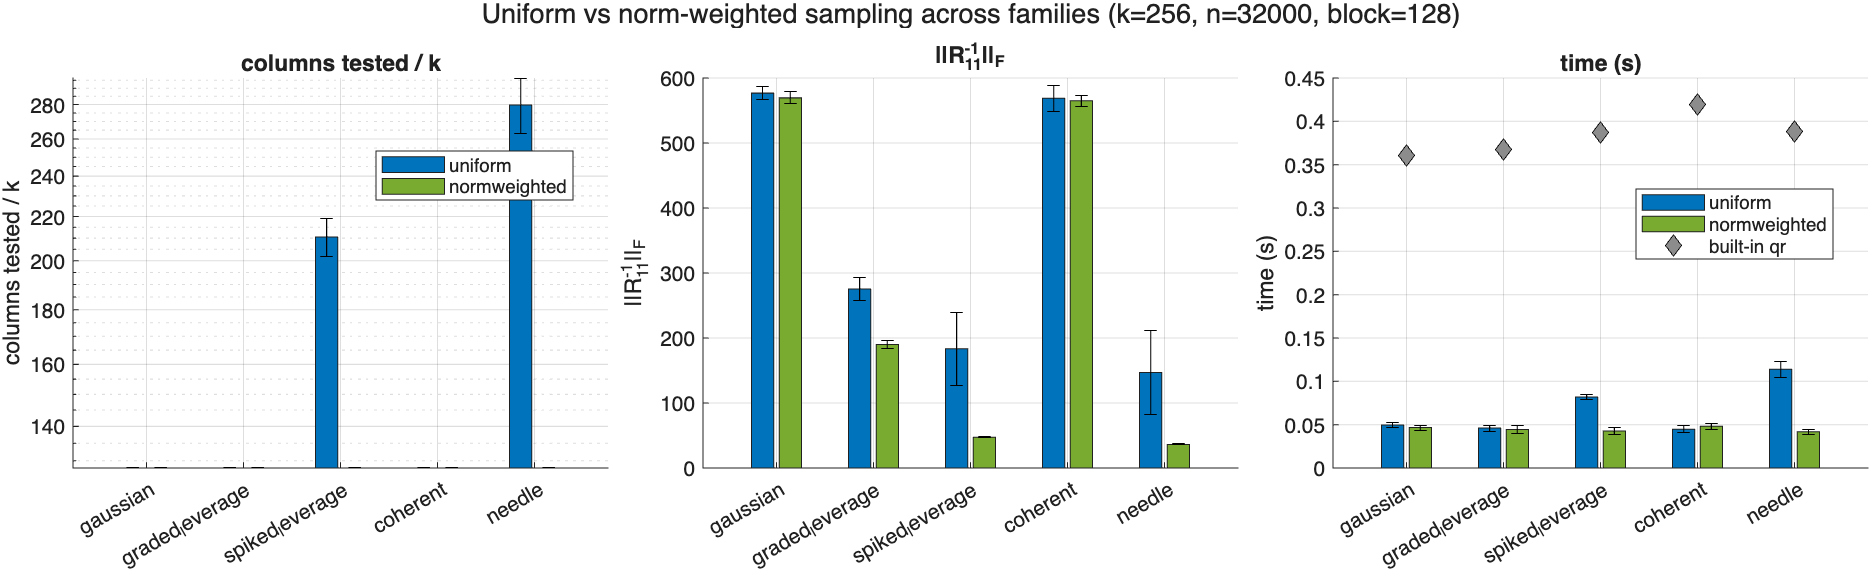
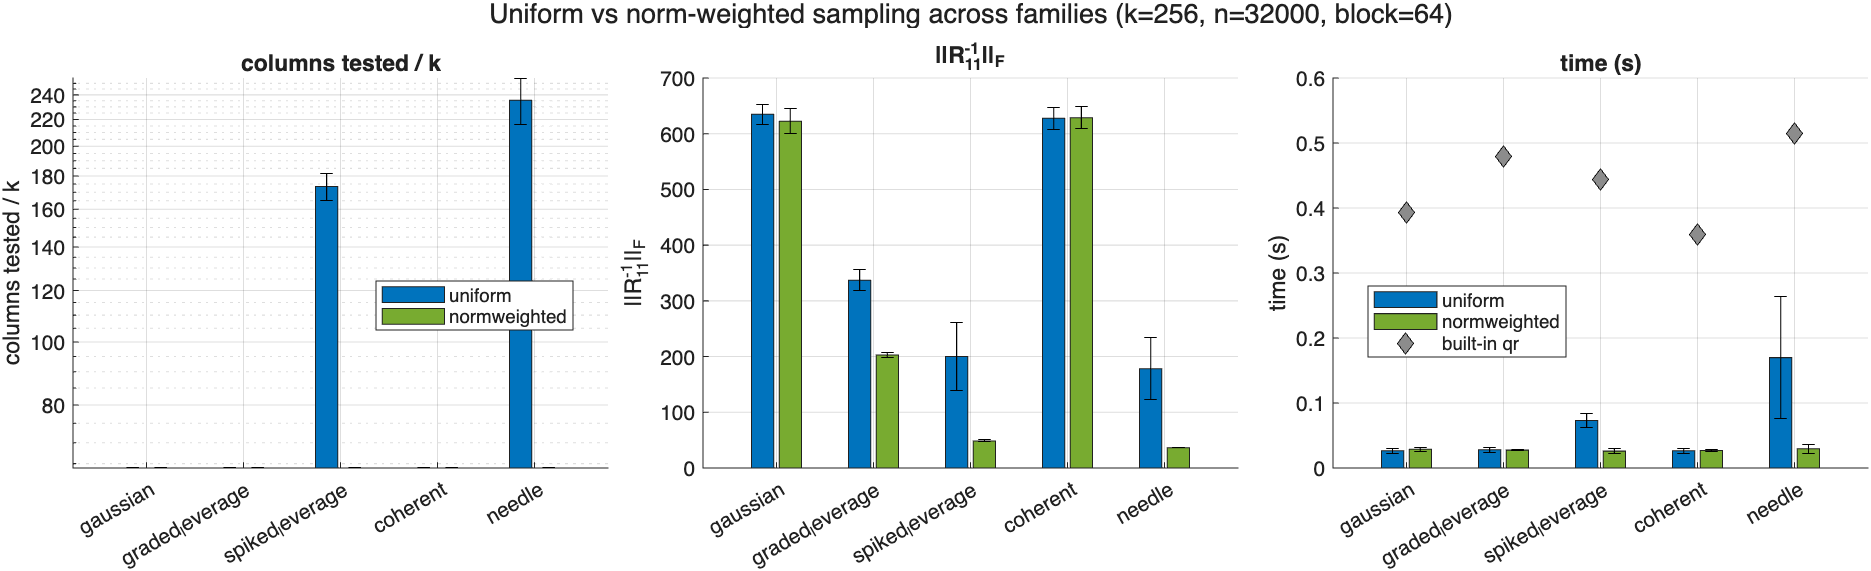
Cap default block at 64; documentation pass; exclude ext_comparisons/
Default block size cap lowered from 128 to 64 (rand_default_block.m + MEX mirror),
so the default is now ceil(k/2) in [16,64] = 32/64/64 for k=64/128/256. At k=256
this roughly doubles the speed for marginally worse conditioning: vs dgeqp3
36x (was 18x at block 128), vs deterministic 67x (was 35x), conditioning 0.221
(was 0.204). Regenerated k=256 CSVs and plots; k=64/128 unchanged. Tests 18/18.

Documentation pass over docs/RANDOMIZED_BSQR_PLAN.md and matlab_rand/README.md:
- Refreshed every number to the current default-block run (k=256 across-k figures,
  the R12 bullet, the vendor-qr bullet).
- Fixed stale claims left from incremental edits: the "475x" in sec 10 (that was
  block 16; the default-block result is 345x), the R12 bullet's block-16 numbers,
  and the across-k "conditioning ~0.29-0.33" sub-bullet that contradicted the
  "0.28->0.23->0.22" line above it.
- Removed redundancy (the thrice-stated "speedup grows with n", duplicated
  block-16 caveats, a redundant norm-weighted across-k sub-bullet) and corrected
  the stale block_size default ("16") in sec 6 and the README options table.

Excluded ext_comparisons/ from git (.gitignore): third-party comparison
algorithms are documented but not redistributed here -- download from source.

diff --git a/matlab_rand/mex/src/bsqr_rand_mex.cpp b/matlab_rand/mex/src/bsqr_rand_mex.cpp
@@ -260,8 +260,8 @@ void mexFunction(int nlhs, mxArray *plhs[], int nrhs, const mxArray *prhs[]) {
     }
 
     const mwSize k = opt.k;
-    if (opt.block_size == 0) {   // auto: mirrors rand_default_block.m = ceil(k/2) in [16,128]
-        opt.block_size = std::min<mwSize>(128, std::max<mwSize>(16, (k + 1) / 2));
+    if (opt.block_size == 0) {   // auto: mirrors rand_default_block.m = ceil(k/2) in [16,64]
+        opt.block_size = std::min<mwSize>(64, std::max<mwSize>(16, (k + 1) / 2));
     }
     const mwSize block = std::min(opt.block_size, std::max<mwSize>(n, 1));
     const bool weighted = (opt.sampling == Sampling::NormWeighted);

diff --git a/matlab_rand/bsqr_rand.m b/matlab_rand/bsqr_rand.m
@@ -15,7 +15,7 @@ function varargout = bsqr_rand(A, varargin)
 % Name-value options:
 %   'k'              - number of columns to select (default min(m,n))
 %   'block_size'     - candidates tested per sampling round (default
-%                      ceil(k/2) clamped to [16,128]; see RAND_DEFAULT_BLOCK).
+%                      ceil(k/2) clamped to [16,64]; see RAND_DEFAULT_BLOCK).
 %                      Larger blocks improve realized selection quality (the
 %                      per-step minimum is taken over more candidates) at higher
 %                      cost; the guaranteed bound is unchanged.

diff --git a/matlab_rand/rand_default_block.m b/matlab_rand/rand_default_block.m
@@ -1,6 +1,6 @@
 function b = rand_default_block(k)
 %RAND_DEFAULT_BLOCK Default sampling block size as a function of k.
-%   b = ceil(k/2), clamped to [16, 128].
+%   b = ceil(k/2), clamped to [16, 64].
 %
 %   Block size trades compute for *realized* selection quality: with
 %   pick='best_in_block' the accepted pivot is the minimum-criterion column over
@@ -12,5 +12,5 @@ function b = rand_default_block(k)
 %
 %   The C++ MEX backend mirrors this formula; keep the two in sync.
 
-b = min(128, max(16, ceil(k / 2)));
+b = min(64, max(16, ceil(k / 2)));
 end

diff --git a/docs/RANDOMIZED_BSQR_PLAN.md b/docs/RANDOMIZED_BSQR_PLAN.md
@@ -91,18 +91,13 @@ Measured (Apple Silicon, MEX, k=64, `gaussian` orthonormal rows, default block
 | 64×64000   | 345×           | 127×              |
 
 `t_rand` is essentially flat across `n` while both baselines grow `O(nk^2)`, so
-the speedup grows with `n`. (The default block was 16 in earlier revisions, which
-gave larger raw speedups — e.g. 475× vs det at 64×64000 — but worse realized
-conditioning; the larger default trades some of that speed for selection quality,
-see §11.) On concentrated-
-leverage inputs (where uniform sampling tests many columns) use `normweighted`
-sampling to keep `tested/k ≈ block` and recover the same scaling (§11).
-
-These numbers reflect three landed optimizations (earlier BLAS-2 / `O(n)`-shuffle
-versions were ~3–6× only): see §10.
-
-The speedup grows with `n`, exactly as the cost model predicts; the conditioning
-stays far under the guarantee.
+the speedup grows with `n` while the conditioning stays far under the guarantee.
+On concentrated-leverage inputs (where uniform sampling tests many columns) use
+`normweighted` sampling to keep `tested/k ≈ block` and recover this scaling (§11).
+The numbers reflect three landed optimizations (§10; earlier BLAS-2 /
+`O(n)`-shuffle versions were only ~3–6×) and the block size: the default
+`ceil(k/2)` favors conditioning, while a smaller block trades that for raw speed
+(block 16 reached 475× vs det here — see §11).
 
 ## 5. Outputs (`matlab_rand/bsqr_rand.m`)
 
@@ -118,7 +113,7 @@ off and untimed by default).
 
 ## 6. Knobs
 
-`k`, `block_size` (default 16), `threshold_mode` (default `running_mean`),
+`k`, `block_size` (default `ceil(k/2)` in `[16,64]`), `threshold_mode` (default `running_mean`),
 `slack` (default 1), `sampling` (`uniform` default | `normweighted` — by
 *starting* squared column norms, adds an `O(mn)` precompute), `pick`
 (`best_in_block` default | `first`), `seed`, `return_r12`, `backend`
@@ -129,7 +124,7 @@ off and untimed by default).
 `stats` (per-step `1×k` arrays plus scalars):
 - **bound on `||R11^{-1}||_F`**: `f2` (running squared), `Fhat` (per-step worst
   case), `frob_inv = sqrt(f2(end))`, `osinsky_bound = sqrt(k(n-k+1))`;
-- **columns tested ("nested")**: `samples_tested`, `rounds`, `total_tested`;
+- **columns tested**: `samples_tested`, `rounds`, `total_tested`;
 - plus `crit` (accepted `c`), `threshold`, `fallback`.
 
 ## 8. Validation (`matlab_rand/tests/`)
@@ -195,8 +190,9 @@ Kernel optimizations landed (MEX), in order of impact for `k << n`:
 3. **Reuse the accepted column.** Its reduced form already sits in the test block,
    so it is not re-applied (only the rare exhaustive-fallback re-applies).
 
-Together these moved `gaussian` k=64 from ~5× to **475×** at n=64000 (§4): the
-kernel is now n-independent while the deterministic baseline grows `O(nk^2)`.
+Together these took `gaussian` k=64 from ~5× to two orders of magnitude over the
+deterministic baseline (345× at the default block, 475× at block 16; see §4): the
+kernel is now n-independent while both baselines grow `O(nk^2)`.
 
 ## 11. Experiment & plot suite (R12 not needed)
 
@@ -218,7 +214,7 @@ different, vendor-tuned classical algorithm — the natural "can we beat the
 library?" reference. (`dgeqp3` is itself faster than our deterministic BSQR, so
 it is the tougher baseline.)
 
-The plots use the **default block size** `ceil(k/2)` clamped to `[16,128]`
+The plots use the **default block size** `ceil(k/2)` clamped to `[16,64]`
 (`rand_default_block.m`; the MEX mirrors it) and `pick='best_in_block'` (accept
 the block's minimum-criterion column when it meets the threshold). The
 `worstcase_allowance` threshold stays a documented option (`bsqr_rand` help) but
@@ -244,25 +240,22 @@ is **omitted from the plots** to keep the narrative on the per-step-bounded
   *uniform* sampling the win is smaller because the sampler tests many columns —
   fixed by norm-weighted sampling (below).
 - **Beats the vendor library, not just our own kernel.** Against built-in
-  `dgeqp3` (gaussian, n=64000) randomized is `127× / 59× / 18×` faster at
+  `dgeqp3` (gaussian, n=64000) randomized is `127× / 59× / 36×` faster at
   `k = 64 / 128 / 256` — and `dgeqp3` is the *tougher* baseline (it outpaces our
-  deterministic BSQR). Even with `R12` formed it stays `~5–6×` faster than
+  deterministic BSQR). Even with `R12` formed it stays `~5–7×` faster than
   `dgeqp3` at n=64000. Selection quality is comparable and well under the bound
-  (`||R11^{-1}||_F`/Osinsky ≈ 0.20–0.28 randomized vs ≈ 0.16–0.18 for `dgeqp3` on
-  gaussian). The value proposition is speed at preserved guarantees. (Raw speedups
-  scale inversely with the block size; the smaller block 16 used in earlier
-  revisions roughly doubled–to–6×'d these numbers at the cost of conditioning.)
+  (`||R11^{-1}||_F`/Osinsky ≈ 0.22–0.28 randomized vs ≈ 0.16 for `dgeqp3` on
+  gaussian). The value proposition is speed at preserved guarantees.
 - **When R12 *is* needed** (the `rand_r12` series / `fig_scaling_*` purple line),
   the randomized method must apply the accumulated `Q'` to the `n-k` leftover
   columns — one `O(nk^2)` BLAS-3 pass, the same order as the deterministic
   kernel's total work. The dramatic n-scaling therefore collapses to a constant
-  factor: `gaussian` `t_det/t_rand` settles at `~6× → 10× → 14×` over
-  `n = 1000 → 8000 → 64000` (vs `7× → 34× → 517×` without R12), and the stress
-  families to ~4–6×. It still wins because it does one clean `Q'`-apply instead of
-  the deterministic kernel's per-step W-maintenance over every column — but this
-  is the regime where the advantage is a modest constant, not orders of magnitude.
-  Bottom line: the big win is specifically the *R12-not-needed* (subset +
-  reflectors + R11) use case.
+  factor: at k=64 `gaussian` `t_det/t_rand` settles at `~5× → 9× → 14×` over
+  `n = 1000 → 8000 → 64000` (vs `6× → 25× → 345×` without R12). It still wins —
+  one clean `Q'`-apply versus the deterministic kernel's per-step W-maintenance
+  over every column — but the advantage here is a modest constant, not orders of
+  magnitude. The big win is specifically the *R12-not-needed* (subset + reflectors
+  + R11) use case.
 - **Conditioning.** `running_mean` keeps `||R11^{-1}||_F` far under the bound on
   *all* families (ratio ≈ 0.05–0.28 at the default block) and within ≈ 1.2–1.6× of
   the deterministic value. The bound is never violated — the stress matrices
@@ -275,10 +268,12 @@ is **omitted from the plots** to keep the narrative on the per-step-bounded
   the ratio improves `0.30 → 0.27 → 0.24 → 0.20` at block `16 → 32 → 64 → 128`,
   roughly halving the gap to deterministic (≈ 0.17). Cost grows ~linearly in block
   (and on the stress families very small blocks are much slower — block=1 needs
-  ~130–190 rounds). The default is now **`ceil(k/2)` clamped to `[16,128]`** (=
-  32/64/128 for k = 64/128/256): a deliberate shift toward selection quality, at
-  the price of some raw speed (e.g. k=256 vs `dgeqp3` drops from ~107× at block 16
-  to ~18× at block 128). An adaptive block remains future work.
+  ~130–190 rounds). The default is now **`ceil(k/2)` clamped to `[16,64]`** (=
+  32/64/64 for k = 64/128/256): a deliberate shift toward selection quality, at
+  the price of some raw speed. The cap of 64 keeps that cost bounded for large k:
+  at k=256 the default block 64 gives 36× vs `dgeqp3` (conditioning 0.22), whereas
+  block 128 would halve it to ~18× for only marginally better conditioning (0.20).
+  An adaptive block remains future work.
 - *(`worstcase_allowance`, omitted from the plots, is a documented option that
   only guarantees the final Frobenius bound: on `spiked_leverage` it spends slack
   up to ~0.8 of the Osinsky bound vs ~0.1 for `running_mean`. Hence `running_mean`
@@ -297,18 +292,14 @@ is **omitted from the plots** to keep the narrative on the per-step-bounded
   may be) concentrated.**
 - **Across k (k ∈ {64, 128, 256}, n=64000).** The story holds at every k; the
   numbers shift as the cost model predicts:
-  - *No-R12 gaussian speedup* (vs deterministic, n=64000, default block) shrinks
-    with k — `345× → 127× → 35×` at k = 64/128/256 — because the randomized apply
-    grows with `k` *and* the default block `ceil(k/2)`, while the deterministic
-    baseline grows `O(nk²)`. Versus `dgeqp3` it is `127× → 59× → 18×`.
-  - *Realized conditioning improves with k* — `0.28 → 0.23 → 0.20` — since the
-    default block `ceil(k/2)` minimizes over a larger fraction of candidates.
-  - *Stress families* (uniform) still improve slightly with k (`needle`),
-    because the useful set `ng ≈ 1.25k` grows with k so fewer samples are wasted.
-  - *Conditioning* stays `~0.29–0.33` (gaussian) and lower for stress at all k —
-    the Osinsky bound is respected throughout.
-  - *Norm-weighted sampling* wins at every k: e.g. `needle` k=256 cuts tested/k
-    `207 → 16` and time `105 ms → 10 ms` (~10×).
+  - *Gaussian speedup vs deterministic* shrinks with k — `345× → 127× → 67×` —
+    because the randomized apply grows with `k` *and* the default block `ceil(k/2)`
+    while the deterministic baseline grows `O(nk²)`. Versus `dgeqp3`: `127× → 59× → 36×`.
+  - *Realized conditioning* is `0.28 → 0.23 → 0.22` — comparable across k and well
+    under the bound; the larger relative block for bigger k offsets the growth.
+  - *Stress families* (uniform) improve slightly with k (`needle`), because the
+    useful set `ng ≈ 1.25k` grows with k so fewer samples are wasted; norm-weighted
+    sampling continues to dominate them (the previous bullet).
 
 ## 12. Review-pass outcomes and future work
 

diff --git a/matlab_rand/README.md b/matlab_rand/README.md
@@ -77,7 +77,7 @@ This writes `benchmark/results/exp_*_k<K>.csv` and `benchmark/plots/fig_*_k<K>.p
 | option | default | meaning |
 |---|---|---|
 | `k` | `min(m,n)` | columns to select |
-| `block_size` | `16` | candidates evaluated per sampling round |
+| `block_size` | `ceil(k/2)` in `[16,64]` | candidates evaluated per sampling round; larger improves realized quality at higher cost (`rand_default_block`) |
 | `threshold_mode` | `running_mean` | per-column bound (per-singular-value control) or `worstcase_allowance` (more permissive, fewer samples) |
 | `slack` | `1.0` | `>=1` multiplier loosening the threshold |
 | `sampling` | `uniform` | or `normweighted` (by starting squared column norms; adds `O(mn)`) |
